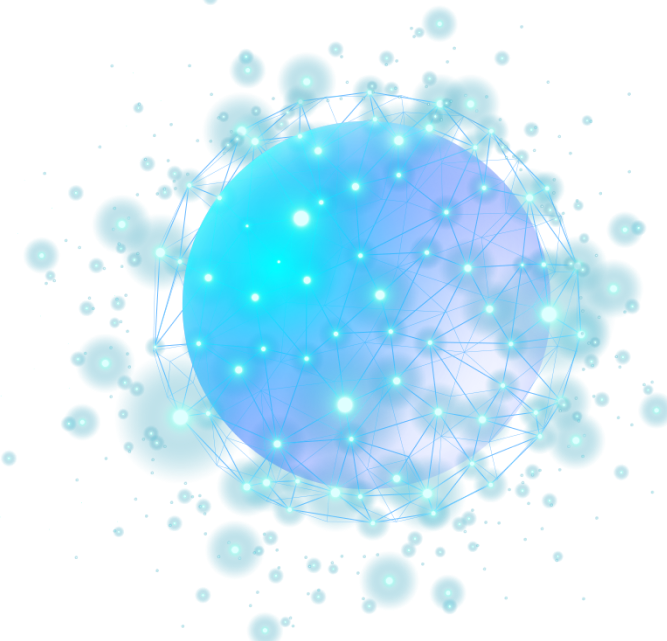
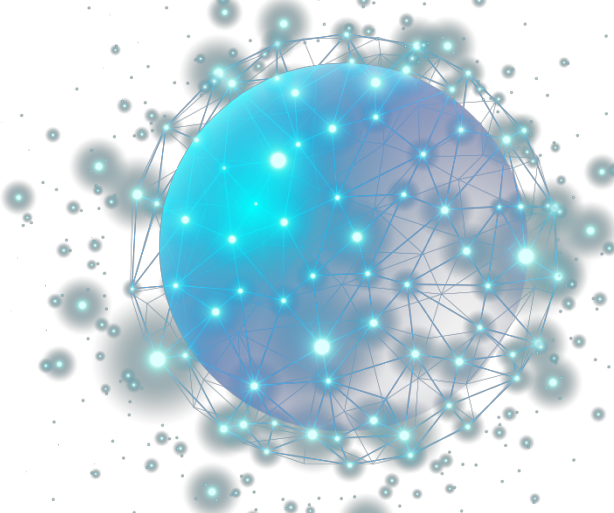
animation

diff --git a/style.css b/style.css
@@ -2,17 +2,18 @@ body {
   margin: 0;
   background-color: #150e28;
   color: white;
-  /* display: flex;
-  justify-content: center; */
+  display: flex;
+  justify-content: center;
 }
 
 html {
   scroll-behavior: smooth;
+  overflow-x: hidden;
 }
 
-/* .container {
+.container {
   width: 1512px;
-} */
+}
 
 header {
   color: white;
@@ -169,9 +170,17 @@ header .purple1 {
 }
 
 .purple2 {
+  width: 100%;
   position: absolute;
-  top: -30px;
-  left: -20px;
+  top: 30px;
+  left: -50px;
+  animation: rotate 5s linear infinite;
+}
+
+@keyframes rotate {
+  50% {
+    transform: rotate(360deg);
+  }
 }
 
 .headimg {
@@ -266,6 +275,14 @@ header .purple1 {
 
 .next1img .omgg11 {
   width: 100%;
+  animation: rota 4s linear infinite;
+}
+
+@keyframes rota {
+  100%{
+    transform: rotate(360deg);
+  }
+  
 }
 
 .next1img .omgg1 {
@@ -617,6 +634,10 @@ header .purple1 {
   gap: 30px;
   align-items: center;
   position: relative;
+}
+
+.next6 img {
+  width: 100%;
 }
 
 .next5rew {
